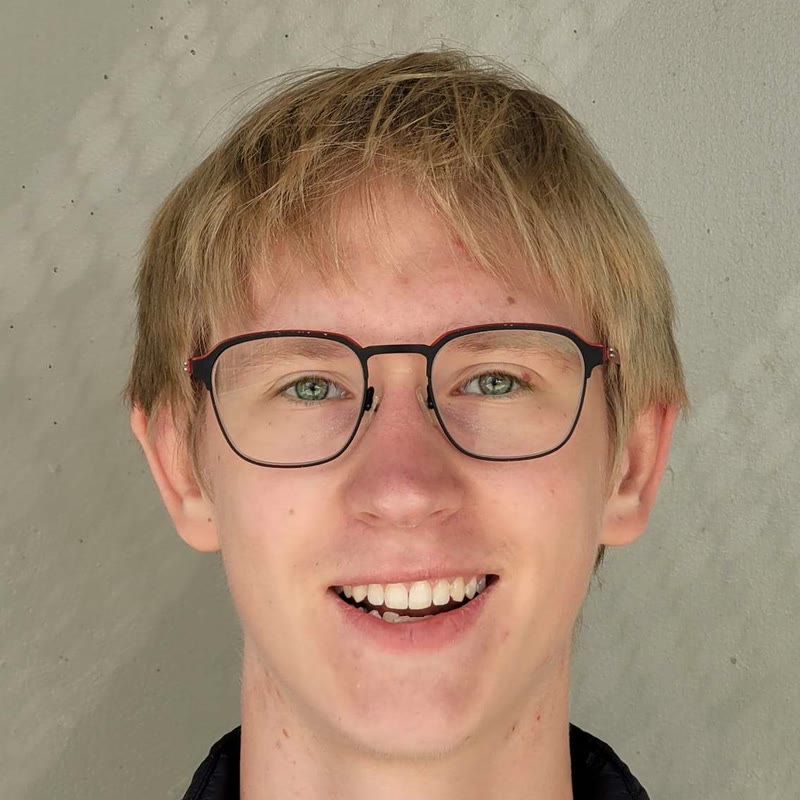
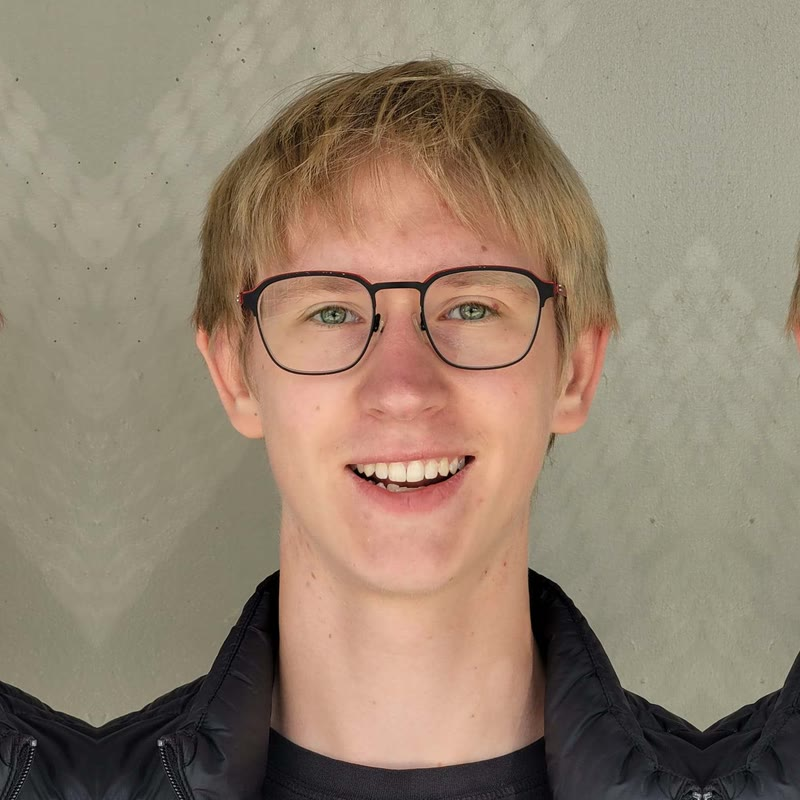
Larger headshot showing shoulders

diff --git a/style.css b/style.css
@@ -145,8 +145,8 @@ section h2 {
 
 .hero-photo {
   flex: 0 0 auto;
-  width: 176px;
-  height: 176px;
+  width: 220px;
+  height: 220px;
   border-radius: 50%;
   object-fit: cover;
   border: 1px solid var(--line);
@@ -1003,8 +1003,8 @@ body.lightbox-open {
     gap: 28px;
   }
   .hero-photo {
-    width: 128px;
-    height: 128px;
+    width: 150px;
+    height: 150px;
   }
   .hero-text h1 {
     font-size: 38px;
